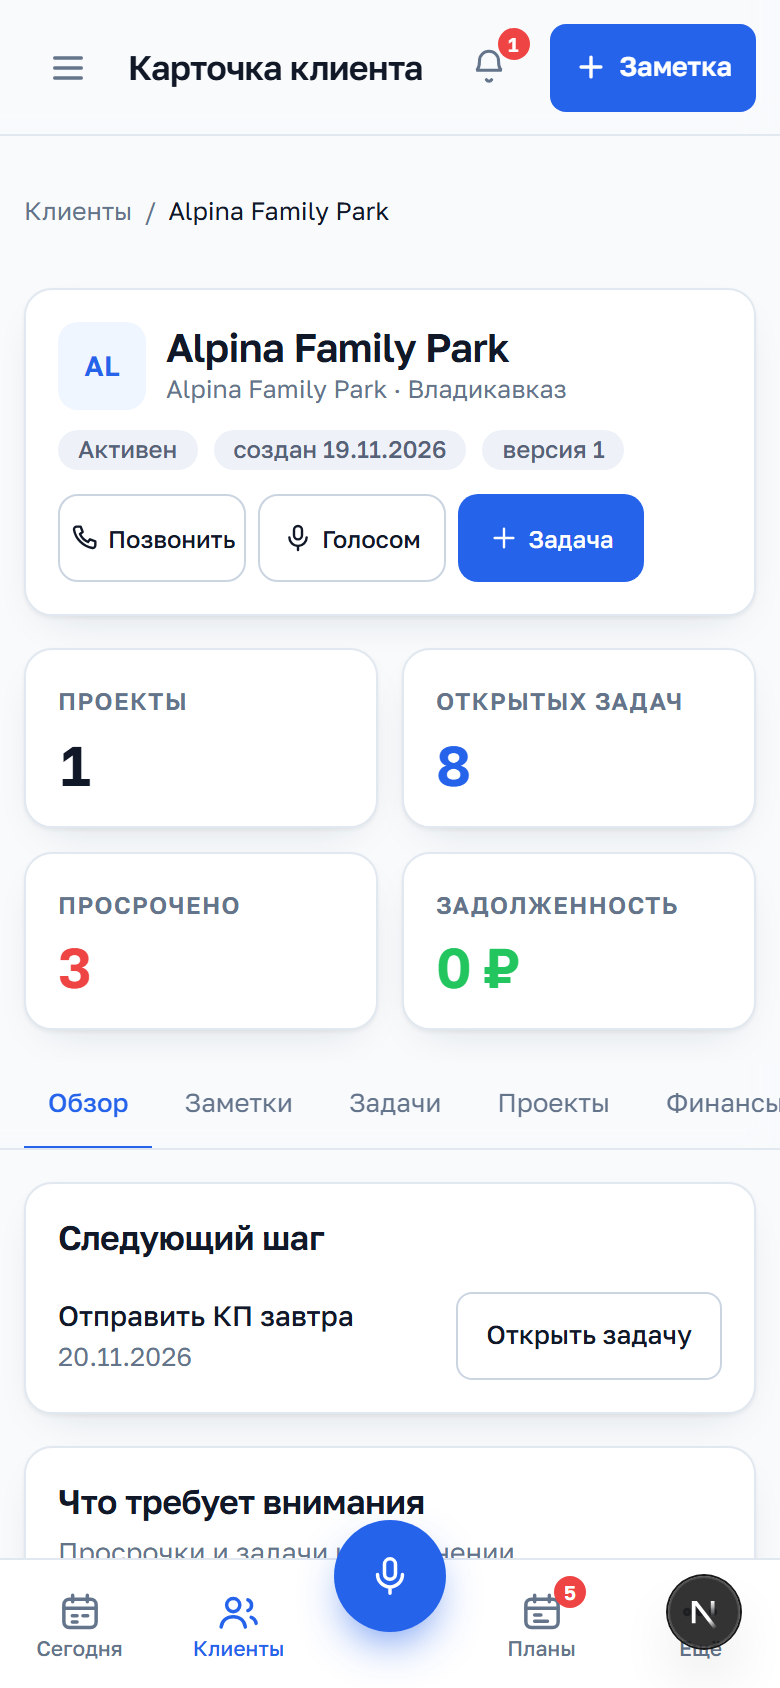
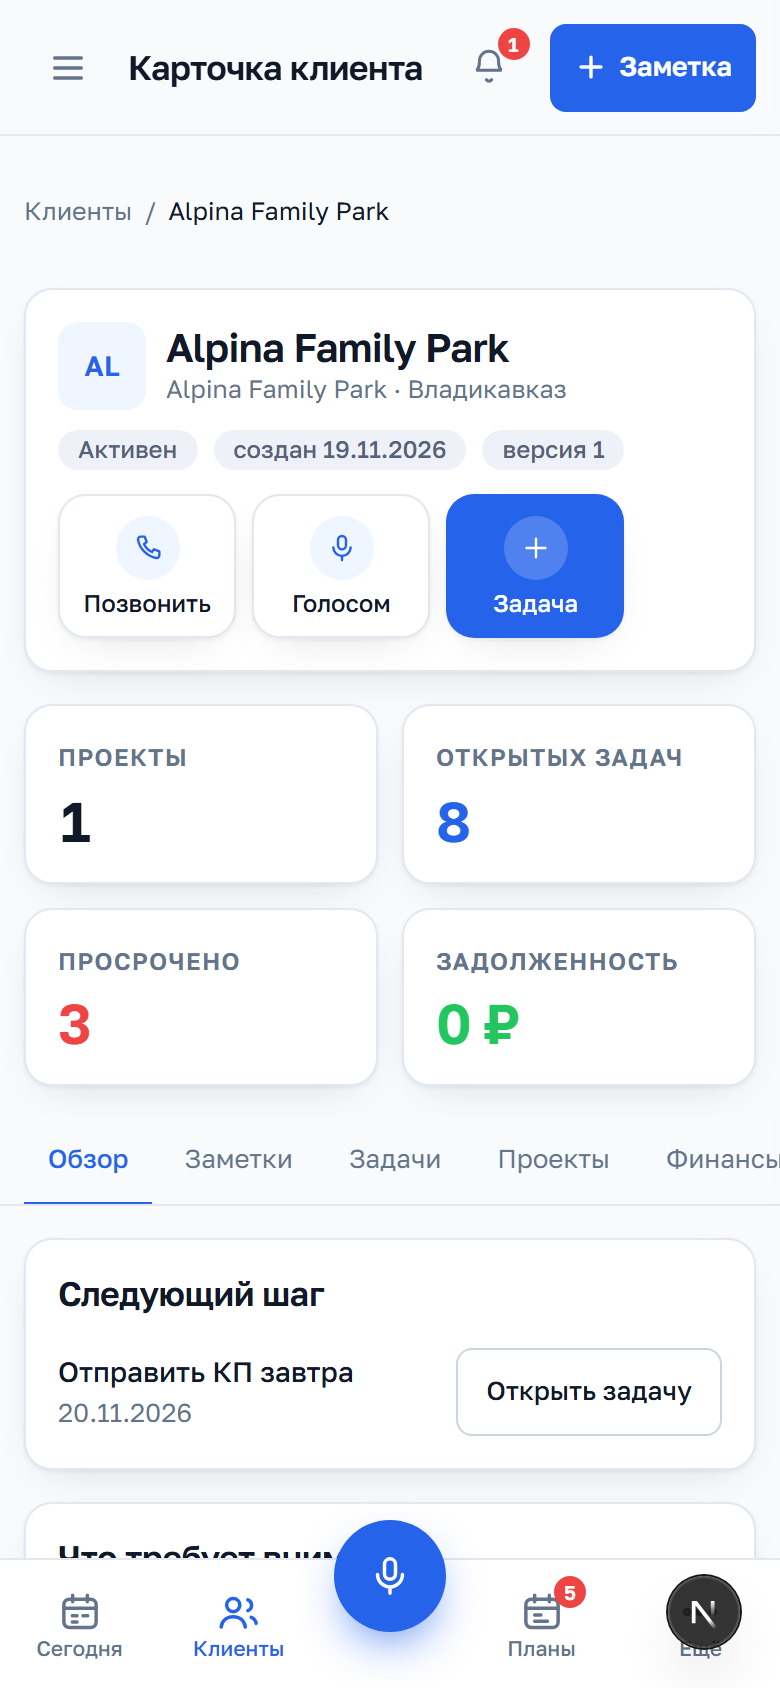
п.29: переделать мобильный ряд действий по дизайн-системе
Прошлый вариант был голыми кнопками в рамке: без тени, без реакции на
нажатие, без появления — выглядело как форма 2005 года. Система в проекте
уже была, я её просто не использовал.

Что изменилось:
- `forteon-action` — общий класс действий: `transition` на цвет/границу/
  тень и просадка `active:scale(.98)`, как у остальных кнопок;
- `shadow-soft` в покое → `hover:shadow-lift` + `hover:-translate-y-0.5`:
  плитка приподнимается, а не просто меняет цвет текста;
- вертикальная компоновка: иконка в мягком круге (как аватар в шапке)
  над словом. При 390px на треть приходится ~89px — в строку «Надиктовать»
  не влезало, а с иконкой сверху слово всегда целиком (проверка обрезки
  это подтверждает);
- иконка при hover заливается синим (`group-hover:bg-primary
  group-hover:text-white`), у главной кнопки — `bg-white/20`;
- «Задача» — единственная залитая синим: это главное действие, остальные
  две — вторичные;
- выключенная «Позвонить» (нет телефона) — пунктирная рамка и приглушённая
  иконка, чтобы отличалась от рабочей не только прозрачностью;
- появление ряда стаггером `.forteon-quick-actions` (40/90/140 мс) —
  три плитки не выскакивают одним куском. `prefers-reduced-motion`
  и `data-motion="off"` гасят анимацию, как везде в проекте.

Замер: было 94×44 в строку, стало 89×72 — крупнее цель для пальца,
обрезки нет. Проверка `_verify_mobile_card.py` по-прежнему зелёная:
три действия видны под заголовком, `tel:+79991234567`, на десктопе
дублей нет. `tsc --noEmit` чисто.

diff --git a/frontend/src/app/(app)/clients/[id]/page.tsx b/frontend/src/app/(app)/clients/[id]/page.tsx
@@ -496,42 +496,63 @@ function ClientWorkspace() {
               <Badge tone="neutral">версия {client.version}</Badge>
             </div>
             {/*
-              п.29: на телефоне три главных действия — сразу под заголовком,
-              тремя равными кнопками во всю ширину. На десктопе этот ряд
-              скрыт, там те же действия стоят справа в шапке.
-              Текст 12px + иконка 14px: при 390px на кнопку приходится ~103px,
-              и «Надиктовать» 13px уже вылезало за рамку.
+              п.29: на телефоне три главных действия — сразу под заголовком.
+              На десктопе ряд скрыт: там те же действия справа в шапке.
+
+              Вертикальная компоновка (иконка над словом), а не строка:
+              при 390px на треть экрана приходится ~94px, и «Надиктовать»
+              в строку упиралось в рамку. Плитка выше, но нажимается
+              уверенно, и слово всегда целиком.
+
+              Оформление взято из системы, а не своё: `forteon-action`
+              даёт transition и просадку при нажатии (active:scale .98),
+              `shadow-soft` — ту же тень, что у кнопок, hover поднимает
+              плитку на 2px. Иконка сидит в мягком круге, как аватар
+              в шапке, — так плитка читается как действие, а не как текст
+              в рамке. Появление — стаггером, чтобы ряд не «выскакивал».
             */}
-            <div className="mt-3 grid grid-cols-3 gap-1.5 sm:hidden">
+            <div className="forteon-quick-actions mt-3 grid grid-cols-3 gap-2 sm:hidden">
               {callHref ? (
                 <a
                   href={callHref}
-                  className="focus-ring inline-flex h-11 min-h-[44px] items-center justify-center gap-1 rounded-control border border-[var(--border-strong)] px-1 text-[12px] font-medium text-ink hover:text-primary"
+                  className="forteon-action focus-ring group flex min-h-[44px] flex-col items-center justify-center gap-1.5 rounded-card border border-[var(--border)] bg-surface px-1 py-2.5 shadow-soft transition-transform hover:-translate-y-0.5 hover:border-primary hover:shadow-lift active:translate-y-0"
                 >
-                  <IconPhone /> Позвонить
+                  <span className="grid h-8 w-8 place-items-center rounded-full bg-[var(--primary-soft)] text-primary transition-colors group-hover:bg-primary group-hover:text-white">
+                    <IconPhone />
+                  </span>
+                  <span className="text-[12px] font-medium leading-none text-ink">Позвонить</span>
                 </a>
               ) : (
                 <button
                   type="button"
                   disabled
                   title="У клиента нет телефона в контактах"
-                  className="inline-flex h-11 min-h-[44px] cursor-not-allowed items-center justify-center gap-1 rounded-control border border-[var(--border)] px-1 text-[12px] font-medium text-[var(--muted)] opacity-70"
+                  className="flex min-h-[44px] cursor-not-allowed flex-col items-center justify-center gap-1.5 rounded-card border border-dashed border-[var(--border)] px-1 py-2.5"
                 >
-                  <IconPhone /> Позвонить
+                  <span className="grid h-8 w-8 place-items-center rounded-full bg-[var(--canvas)] text-[var(--muted)]">
+                    <IconPhone />
+                  </span>
+                  <span className="text-[12px] font-medium leading-none text-[var(--muted)]">Позвонить</span>
                 </button>
               )}
               <Link
                 href={`/notes?client_id=${encodeURIComponent(clientId)}&voice=1`}
-                className="focus-ring inline-flex h-11 min-h-[44px] items-center justify-center gap-1 rounded-control border border-[var(--border-strong)] px-1 text-[12px] font-medium text-ink hover:text-primary"
+                className="forteon-action focus-ring group flex min-h-[44px] flex-col items-center justify-center gap-1.5 rounded-card border border-[var(--border)] bg-surface px-1 py-2.5 shadow-soft transition-transform hover:-translate-y-0.5 hover:border-primary hover:shadow-lift active:translate-y-0"
               >
-                <IconMic /> Голосом
+                <span className="grid h-8 w-8 place-items-center rounded-full bg-[var(--primary-soft)] text-primary transition-colors group-hover:bg-primary group-hover:text-white">
+                  <IconMic />
+                </span>
+                <span className="text-[12px] font-medium leading-none text-ink">Голосом</span>
               </Link>
               <button
                 type="button"
                 onClick={() => setCreateTask(true)}
-                className="focus-ring inline-flex h-11 min-h-[44px] items-center justify-center gap-1 rounded-control bg-primary px-1 text-[12px] font-medium text-white hover:opacity-90"
+                className="forteon-action focus-ring group flex min-h-[44px] flex-col items-center justify-center gap-1.5 rounded-card bg-primary px-1 py-2.5 shadow-soft transition-transform hover:-translate-y-0.5 hover:bg-[var(--primary-hover)] hover:shadow-lift active:translate-y-0"
               >
-                <IconPlus /> Задача
+                <span className="grid h-8 w-8 place-items-center rounded-full bg-white/20 text-white transition-colors group-hover:bg-white/30">
+                  <IconPlus />
+                </span>
+                <span className="text-[12px] font-medium leading-none text-white">Задача</span>
               </button>
             </div>
           </div>

diff --git a/frontend/src/app/globals.css b/frontend/src/app/globals.css
@@ -435,6 +435,26 @@ html {
   to { opacity: 1; transform: translateY(0); }
 }
 
+/*
+ * п.29: мобильный ряд «Позвонить / Голосом / Задача».
+ * Появление стаггером, чтобы три плитки не выскакивали одним куском:
+ * у менеджера есть 200 мс, чтобы заметить, что действия появились.
+ * Внутри prefers-reduced-motion не анимируем (блок ниже это гасит).
+ */
+@media (prefers-reduced-motion: no-preference) {
+  .forteon-quick-actions > * {
+    animation: forteon-quick-action-in 240ms cubic-bezier(.2, .7, .3, 1) backwards;
+  }
+  .forteon-quick-actions > *:nth-child(1) { animation-delay: 40ms; }
+  .forteon-quick-actions > *:nth-child(2) { animation-delay: 90ms; }
+  .forteon-quick-actions > *:nth-child(3) { animation-delay: 140ms; }
+}
+
+@keyframes forteon-quick-action-in {
+  from { opacity: 0; transform: translateY(6px) scale(.97); }
+  to { opacity: 1; transform: translateY(0) scale(1); }
+}
+
 .forteon-floating {
   --glass-base: var(--surface);
   --glass-rim: rgb(255 255 255 / .7);
